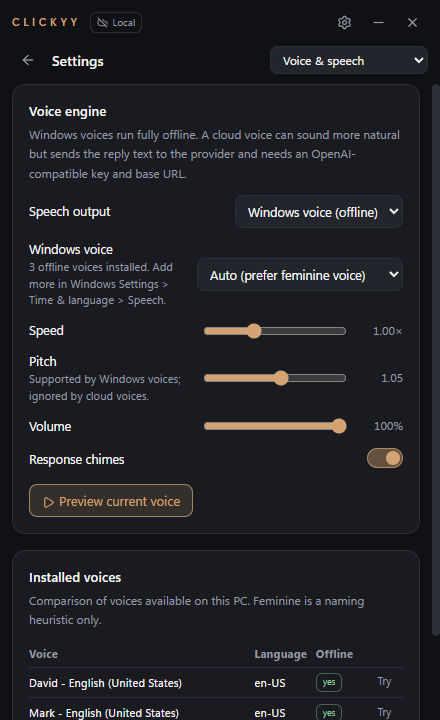
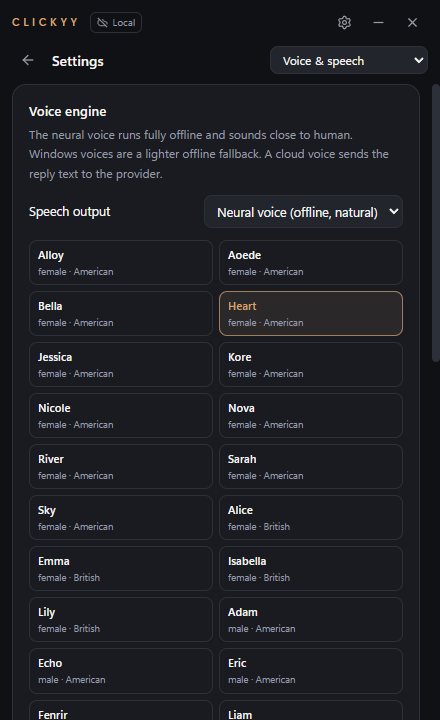
Site: Clickyy 0.2 features and stats

diff --git a/index.html b/index.html
@@ -148,7 +148,7 @@
       </a>
       <a class="btn btn-ghost" href="https://github.com/chinmoyy12/clickyy-ai">View on GitHub</a>
     </div>
-    <p class="fine reveal">Free · Windows 11 x64 · ~175 MB · offline voice included</p>
+    <p class="fine reveal">Free · Windows 11 x64 · ~440 MB · offline neural voice included</p>
     <div class="scroll-hint" aria-hidden="true">SCROLL<span></span></div>
   </div>
 </header>
@@ -169,7 +169,7 @@
       <div class="card reveal"><div class="ic">🎙</div><h3>Wake words, offline</h3><p>“Hey Clickyy”, “Clickyy” or “Jarvis”, detected on-device by Vosk. Audio never leaves your PC.</p></div>
       <div class="card reveal"><div class="ic">🧠</div><h3>Any AI, with fallback</h3><p>Primary + fallback cloud providers, then a local model. Live model lists, keys encrypted with Windows.</p></div>
       <div class="card reveal"><div class="ic">🖥</div><h3>Runs your PC</h3><p>Apps, windows, volume, media, battery, Wi-Fi, folders, web search — 48 typed tools, verified results.</p></div>
-      <div class="card reveal"><div class="ic">✨</div><h3>Personality</h3><p>Nine voice profiles from Professional to Playful, adaptive delivery, natural spoken replies.</p></div>
+      <div class="card reveal"><div class="ic">🗣</div><h3>Neural voice, offline</h3><p>28 natural voices that run on your PC, American or British. Interrupt anytime just by talking.</p></div><div class="card reveal"><div class="ic">🎧</div><h3>Understands you</h3><p>Whisper re-reads every command for near-perfect transcripts. Misheard app names are fuzzy-matched.</p></div><div class="card reveal"><div class="ic">🌅</div><h3>Briefings &amp; alerts</h3><p>Morning briefing, weather, system health report, and a heads-up when your battery runs low.</p></div><div class="card reveal"><div class="ic">👁</div><h3>Sees your screen</h3><p>Ask what&#39;s on your screen or summarize what you copied. Always confirmed, never stored.</p></div><div class="card reveal"><div class="ic">✨</div><h3>Personality</h3><p>Ten profiles, from Professional to Playful to a composed, dry-witted Butler.</p></div>
       <div class="card reveal"><div class="ic">⚡</div><h3>Routines</h3><p>Say “coding mode” to open your editor, project, set volume and start a focus timer — built visually.</p></div>
       <div class="card reveal"><div class="ic">⏰</div><h3>Timers & memory</h3><p>Reminders, focus sessions and things you ask it to remember — stored locally, editable, deletable.</p></div>
     </div>
@@ -211,9 +211,9 @@
     <h2 class="reveal">Powerful, never reckless.</h2>
     <p class="sub reveal">No shell commands from AI, ever. Destructive actions need an on-screen click that names the exact action. Strict Offline mode blocks every remote request at the network layer.</p>
     <div class="stats">
-      <div class="stat reveal"><b data-count="312">0</b><span>automated tests</span></div>
-      <div class="stat reveal"><b data-count="70">0</b><span>built-in commands</span></div>
-      <div class="stat reveal"><b data-count="48">0</b><span>validated tools</span></div>
+      <div class="stat reveal"><b data-count="405">0</b><span>automated tests</span></div>
+      <div class="stat reveal"><b data-count="78">0</b><span>built-in commands</span></div>
+      <div class="stat reveal"><b data-count="52">0</b><span>validated tools</span></div>
       <div class="stat reveal"><b data-count="9">0</b><span>AI providers</span></div>
     </div>
   </section>
